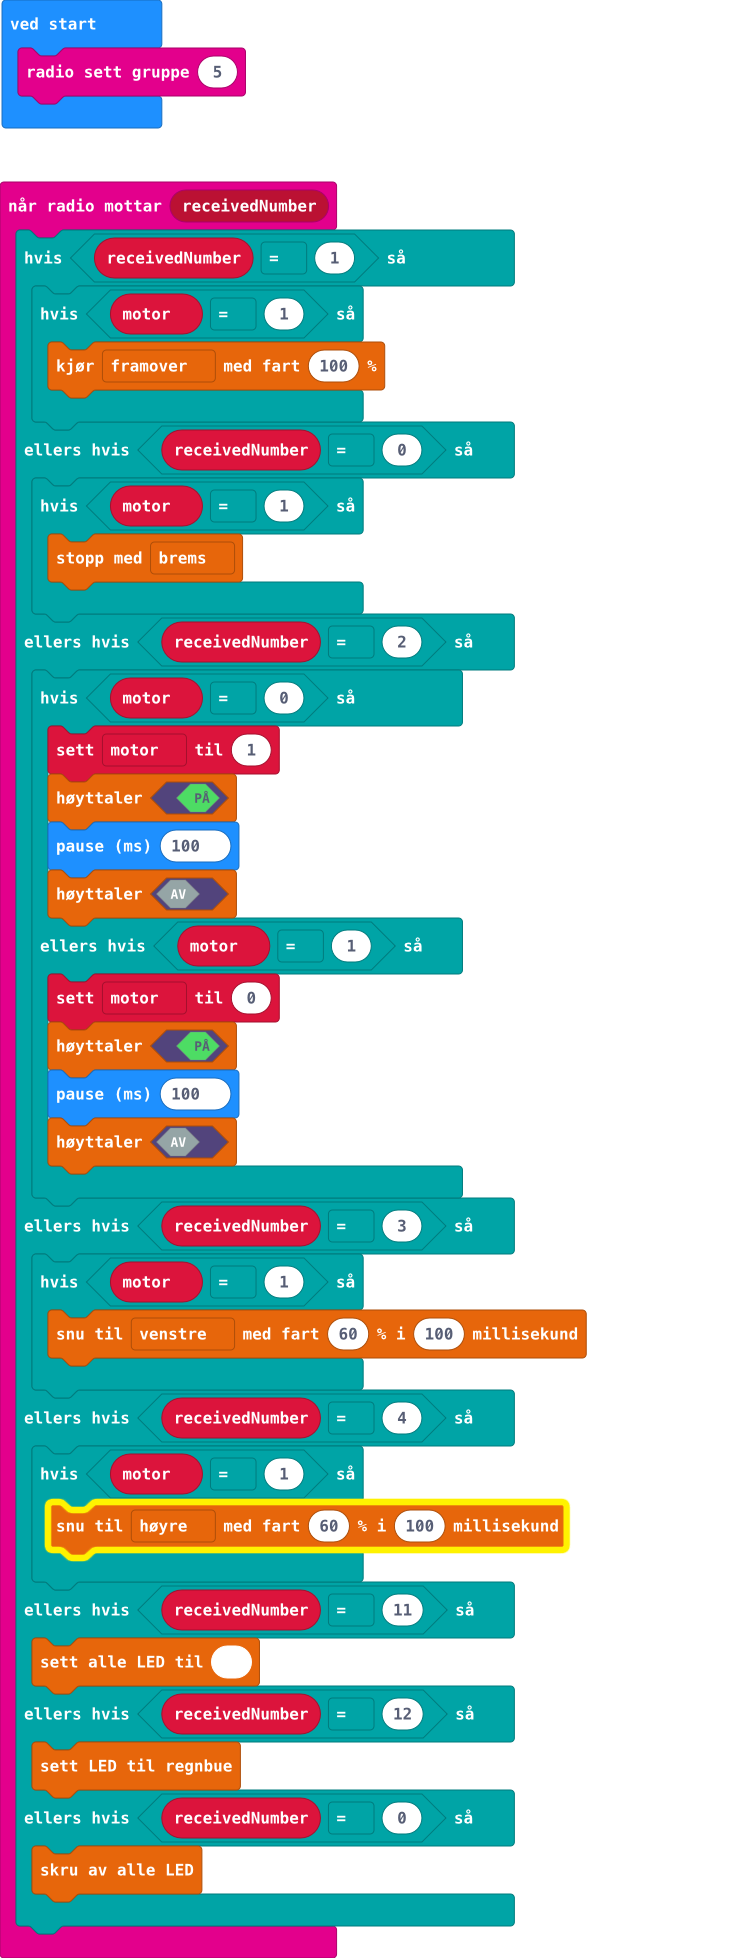
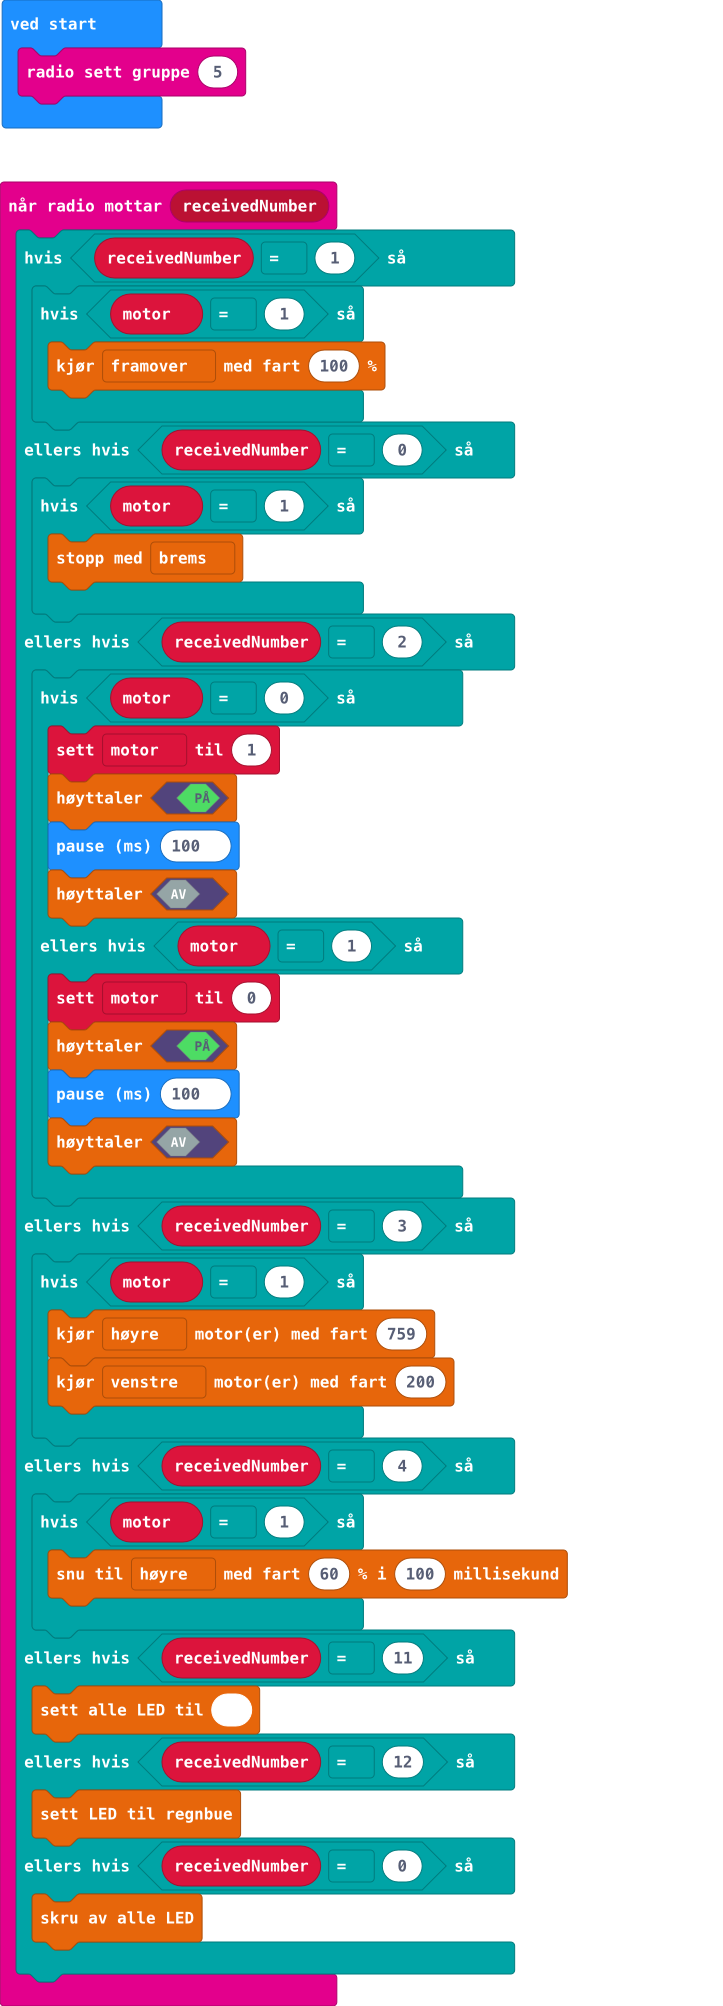
Update main.blocks, main.ts

Changed region(s): [[0.0, 0.0, 0.7911, 1.0]]

diff --git a/main.ts b/main.ts
@@ -21,7 +21,8 @@ radio.onReceivedNumber(function (receivedNumber) {
         }
     } else if (receivedNumber == 3) {
         if (motor == 1) {
-            bitbot.rotatems(BBRobotDirection.Left, 60, 100)
+            bitbot.motor(BBMotor.Right, 759)
+            bitbot.motor(BBMotor.Left, 200)
         }
     } else if (receivedNumber == 4) {
         if (motor == 1) {
